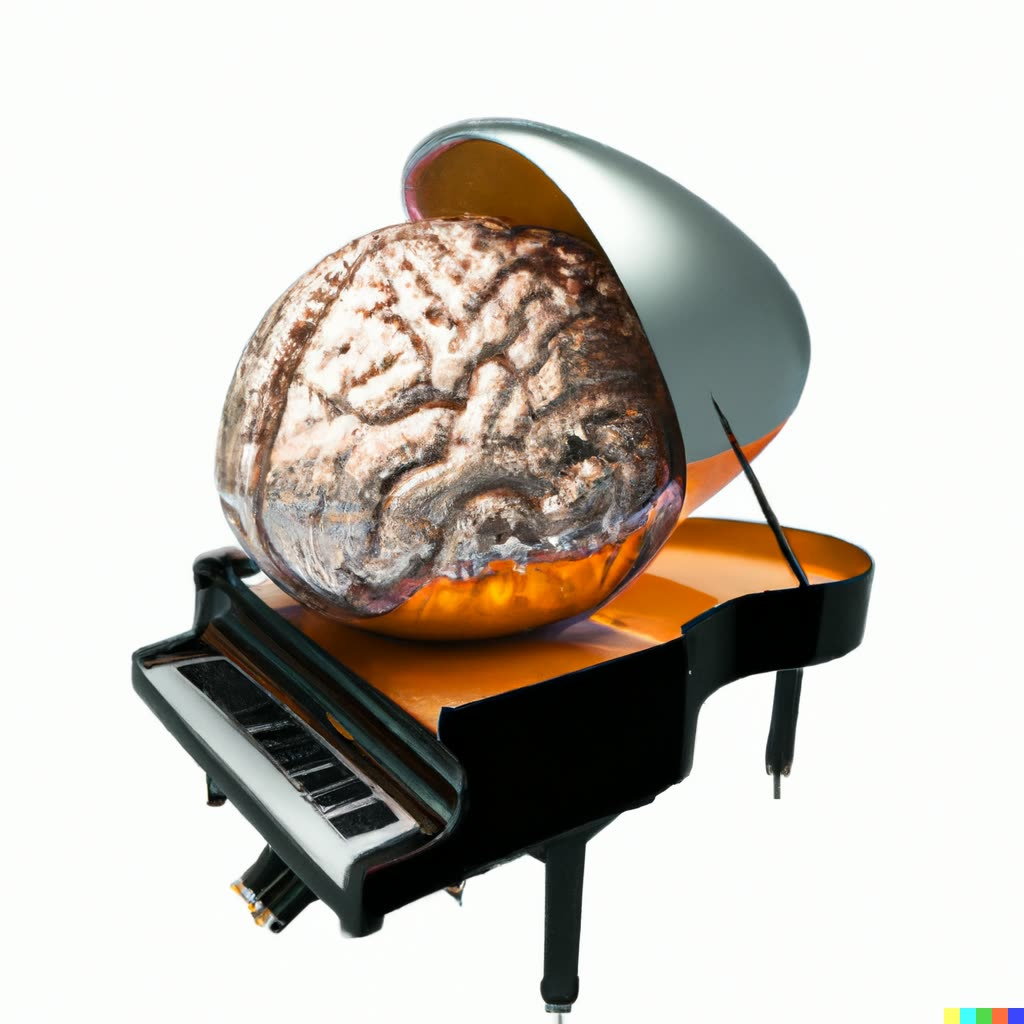
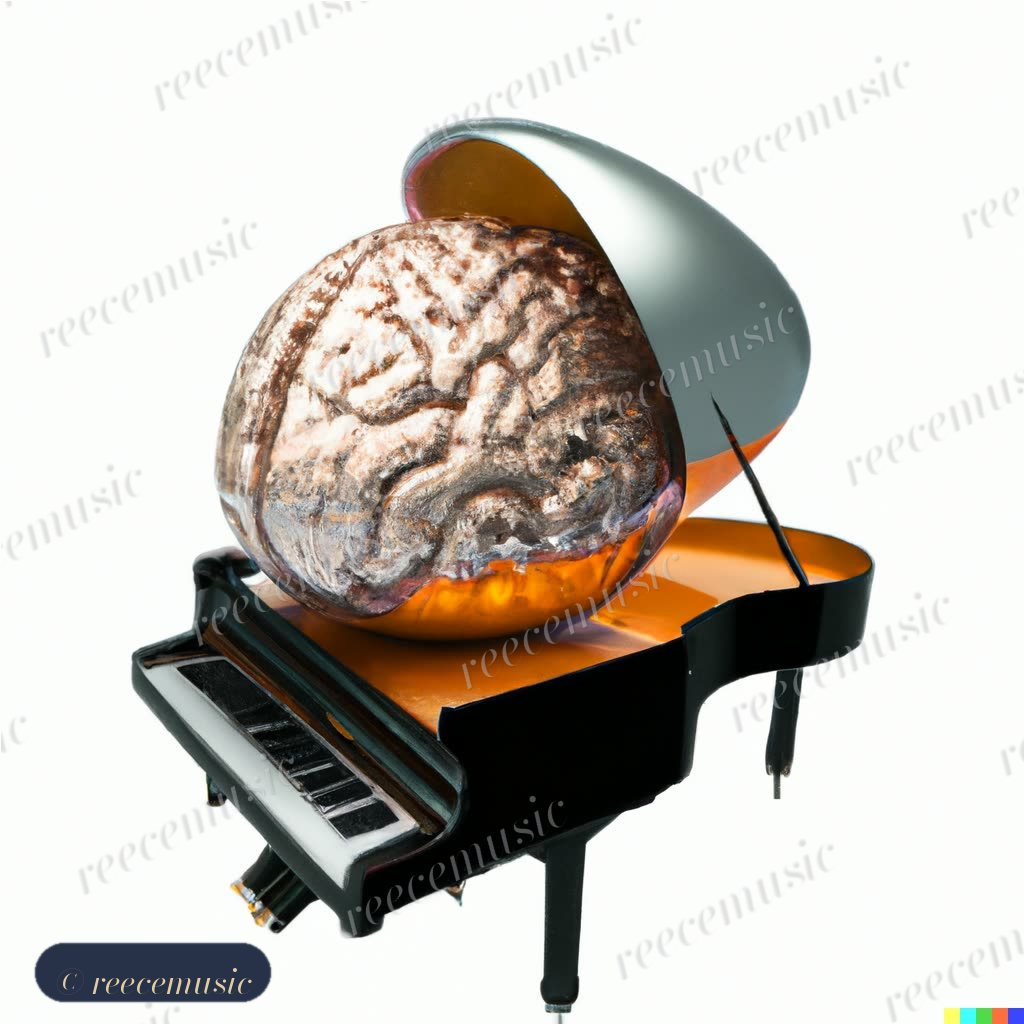
Watermark Reece's digital art
Bake a subtle tiled 'reecemusic' mark (Bodoni Moda italic) and a corner
'© reecemusic' label into all artwork images (jpg + webp), and block
right-click/drag on artwork as a light deterrent.

Claude-Session: https://claude.ai/code/session_01Now7neVPgQ1VnsjN5tCVuq

diff --git a/index.html b/index.html
@@ -19,7 +19,7 @@
   <link rel="preconnect" href="https://fonts.googleapis.com">
   <link rel="preconnect" href="https://fonts.gstatic.com" crossorigin>
   <link href="https://fonts.googleapis.com/css2?family=Bodoni+Moda:ital,opsz,wght@0,6..96,400;0,6..96,500;1,6..96,400&family=Hanken+Grotesk:wght@400;500;600&display=swap" rel="stylesheet">
-  <link rel="stylesheet" href="css/reece.css?v=2026-10-digital-art">
+  <link rel="stylesheet" href="css/reece.css?v=2026-10-watermark">
   <script type="application/ld+json">
     {
       "@context": "https://schema.org",
@@ -246,6 +246,6 @@
     </div>
   </footer>
   <script src="js/config.js?v=2026-10-dark-blue"></script>
-  <script src="js/site.js?v=2026-10-digital-art"></script>
+  <script src="js/site.js?v=2026-10-watermark"></script>
 </body>
 </html>

diff --git a/about.html b/about.html
@@ -19,7 +19,7 @@
   <link rel="preconnect" href="https://fonts.googleapis.com">
   <link rel="preconnect" href="https://fonts.gstatic.com" crossorigin>
   <link href="https://fonts.googleapis.com/css2?family=Bodoni+Moda:ital,opsz,wght@0,6..96,400;0,6..96,500;1,6..96,400&family=Hanken+Grotesk:wght@400;500;600&display=swap" rel="stylesheet">
-  <link rel="stylesheet" href="css/reece.css?v=2026-10-digital-art">
+  <link rel="stylesheet" href="css/reece.css?v=2026-10-watermark">
 </head>
 <body>
   <a class="skip" href="#main">Skip to content</a>
@@ -162,6 +162,6 @@
     </div>
   </footer>
   <script src="js/config.js?v=2026-10-dark-blue"></script>
-  <script src="js/site.js?v=2026-10-digital-art"></script>
+  <script src="js/site.js?v=2026-10-watermark"></script>
 </body>
 </html>

diff --git a/gigs.html b/gigs.html
@@ -19,7 +19,7 @@
   <link rel="preconnect" href="https://fonts.googleapis.com">
   <link rel="preconnect" href="https://fonts.gstatic.com" crossorigin>
   <link href="https://fonts.googleapis.com/css2?family=Bodoni+Moda:ital,opsz,wght@0,6..96,400;0,6..96,500;1,6..96,400&family=Hanken+Grotesk:wght@400;500;600&display=swap" rel="stylesheet">
-  <link rel="stylesheet" href="css/reece.css?v=2026-10-digital-art">
+  <link rel="stylesheet" href="css/reece.css?v=2026-10-watermark">
 </head>
 <body>
   <a class="skip" href="#main">Skip to content</a>
@@ -152,6 +152,6 @@
     </div>
   </footer>
   <script src="js/config.js?v=2026-10-dark-blue"></script>
-  <script src="js/site.js?v=2026-10-digital-art"></script>
+  <script src="js/site.js?v=2026-10-watermark"></script>
 </body>
 </html>

diff --git a/learn.html b/learn.html
@@ -19,7 +19,7 @@
   <link rel="preconnect" href="https://fonts.googleapis.com">
   <link rel="preconnect" href="https://fonts.gstatic.com" crossorigin>
   <link href="https://fonts.googleapis.com/css2?family=Bodoni+Moda:ital,opsz,wght@0,6..96,400;0,6..96,500;1,6..96,400&family=Hanken+Grotesk:wght@400;500;600&display=swap" rel="stylesheet">
-  <link rel="stylesheet" href="css/reece.css?v=2026-10-digital-art">
+  <link rel="stylesheet" href="css/reece.css?v=2026-10-watermark">
 </head>
 <body>
   <a class="skip" href="#main">Skip to content</a>
@@ -113,6 +113,6 @@
     </div>
   </footer>
   <script src="js/config.js?v=2026-10-dark-blue"></script>
-  <script src="js/site.js?v=2026-10-digital-art"></script>
+  <script src="js/site.js?v=2026-10-watermark"></script>
 </body>
 </html>

diff --git a/shop.html b/shop.html
@@ -19,7 +19,7 @@
   <link rel="preconnect" href="https://fonts.googleapis.com">
   <link rel="preconnect" href="https://fonts.gstatic.com" crossorigin>
   <link href="https://fonts.googleapis.com/css2?family=Bodoni+Moda:ital,opsz,wght@0,6..96,400;0,6..96,500;1,6..96,400&family=Hanken+Grotesk:wght@400;500;600&display=swap" rel="stylesheet">
-  <link rel="stylesheet" href="css/reece.css?v=2026-10-digital-art">
+  <link rel="stylesheet" href="css/reece.css?v=2026-10-watermark">
 </head>
 <body>
   <a class="skip" href="#main">Skip to content</a>
@@ -179,6 +179,6 @@
     </div>
   </footer>
   <script src="js/config.js?v=2026-10-dark-blue"></script>
-  <script src="js/site.js?v=2026-10-digital-art"></script>
+  <script src="js/site.js?v=2026-10-watermark"></script>
 </body>
 </html>

diff --git a/sight-and-sound.html b/sight-and-sound.html
@@ -19,7 +19,7 @@
   <link rel="preconnect" href="https://fonts.googleapis.com">
   <link rel="preconnect" href="https://fonts.gstatic.com" crossorigin>
   <link href="https://fonts.googleapis.com/css2?family=Bodoni+Moda:ital,opsz,wght@0,6..96,400;0,6..96,500;1,6..96,400&family=Hanken+Grotesk:wght@400;500;600&display=swap" rel="stylesheet">
-  <link rel="stylesheet" href="css/reece.css?v=2026-10-digital-art">
+  <link rel="stylesheet" href="css/reece.css?v=2026-10-watermark">
 </head>
 <body>
   <a class="skip" href="#main">Skip to content</a>
@@ -163,6 +163,6 @@
     </div>
   </footer>
   <script src="js/config.js?v=2026-10-dark-blue"></script>
-  <script src="js/site.js?v=2026-10-digital-art"></script>
+  <script src="js/site.js?v=2026-10-watermark"></script>
 </body>
 </html>

diff --git a/purchase-complete.html b/purchase-complete.html
@@ -20,7 +20,7 @@
   <link rel="preconnect" href="https://fonts.googleapis.com">
   <link rel="preconnect" href="https://fonts.gstatic.com" crossorigin>
   <link href="https://fonts.googleapis.com/css2?family=Bodoni+Moda:ital,opsz,wght@0,6..96,400;0,6..96,500;1,6..96,400&family=Hanken+Grotesk:wght@400;500;600&display=swap" rel="stylesheet">
-  <link rel="stylesheet" href="css/reece.css?v=2026-10-digital-art">
+  <link rel="stylesheet" href="css/reece.css?v=2026-10-watermark">
 </head>
 <body>
   <a class="skip" href="#main">Skip to content</a>
@@ -90,6 +90,6 @@
     </div>
   </footer>
   <script src="js/config.js?v=2026-10-dark-blue"></script>
-  <script src="js/site.js?v=2026-10-digital-art"></script>
+  <script src="js/site.js?v=2026-10-watermark"></script>
 </body>
 </html>

diff --git a/song.html b/song.html
@@ -19,7 +19,7 @@
   <link rel="preconnect" href="https://fonts.googleapis.com">
   <link rel="preconnect" href="https://fonts.gstatic.com" crossorigin>
   <link href="https://fonts.googleapis.com/css2?family=Bodoni+Moda:ital,opsz,wght@0,6..96,400;0,6..96,500;1,6..96,400&family=Hanken+Grotesk:wght@400;500;600&display=swap" rel="stylesheet">
-  <link rel="stylesheet" href="css/reece.css?v=2026-10-digital-art">
+  <link rel="stylesheet" href="css/reece.css?v=2026-10-watermark">
 </head>
 <body>
   <a class="skip" href="#main">Skip to content</a>
@@ -91,6 +91,6 @@
     </div>
   </footer>
   <script src="js/config.js?v=2026-10-dark-blue"></script>
-  <script src="js/site.js?v=2026-10-digital-art"></script>
+  <script src="js/site.js?v=2026-10-watermark"></script>
 </body>
 </html>

diff --git a/404.html b/404.html
@@ -19,7 +19,7 @@
   <link rel="preconnect" href="https://fonts.googleapis.com">
   <link rel="preconnect" href="https://fonts.gstatic.com" crossorigin>
   <link href="https://fonts.googleapis.com/css2?family=Bodoni+Moda:ital,opsz,wght@0,6..96,400;0,6..96,500;1,6..96,400&family=Hanken+Grotesk:wght@400;500;600&display=swap" rel="stylesheet">
-  <link rel="stylesheet" href="css/reece.css?v=2026-10-digital-art">
+  <link rel="stylesheet" href="css/reece.css?v=2026-10-watermark">
   <meta name="robots" content="noindex, follow">
 </head>
 <body>
@@ -92,6 +92,6 @@
     </div>
   </footer>
   <script src="js/config.js?v=2026-10-dark-blue"></script>
-  <script src="js/site.js?v=2026-10-digital-art"></script>
+  <script src="js/site.js?v=2026-10-watermark"></script>
 </body>
 </html>

diff --git a/js/site.js b/js/site.js
@@ -220,6 +220,14 @@
       .catch(function () { fail("Check your connection and refresh this page. Your payment is safe."); });
   }
 
+  /* ---------- discourage saving artwork (the watermark is baked into the files) ---------- */
+  document.addEventListener("contextmenu", function (e) {
+    if (e.target.closest && e.target.closest(".art-frame, .lightbox")) e.preventDefault();
+  });
+  document.addEventListener("dragstart", function (e) {
+    if (e.target.closest && e.target.closest(".art-frame, .lightbox")) e.preventDefault();
+  });
+
   /* ---------- digital art viewer ---------- */
   var box = document.getElementById("art-viewer");
   if (box && typeof box.showModal === "function") {

diff --git a/css/reece.css b/css/reece.css
@@ -358,3 +358,8 @@ p { margin: 0 0 1em; max-width: 62ch; }
 .tiers li .btn { grid-column: 1 / -1; justify-self: start; padding: 11px 22px; font-size: .95rem; }
 .tiers li.is-featured strong { color: var(--brass); }
 .btn:disabled { opacity: .6; cursor: progress; }
+
+/* ---------- artwork protection (light deterrent; the watermark is in the files) ---------- */
+.art-frame img, .lightbox img {
+  -webkit-user-drag: none; user-select: none; -webkit-user-select: none; -webkit-touch-callout: none;
+}
